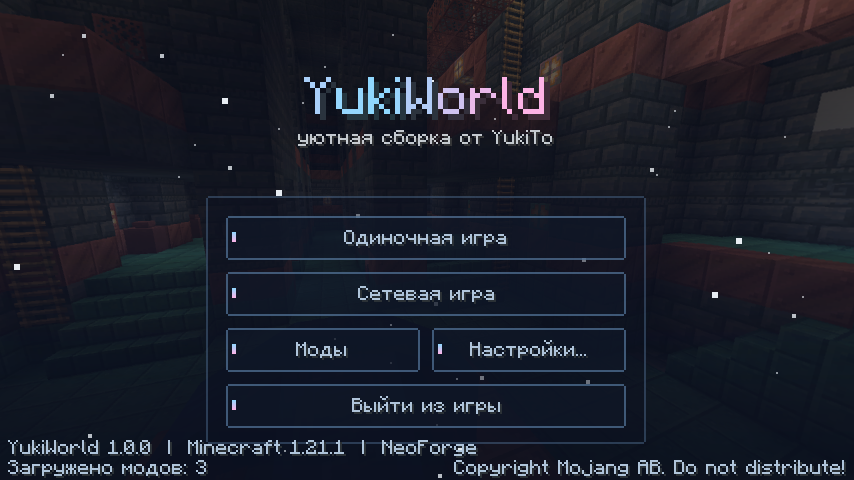
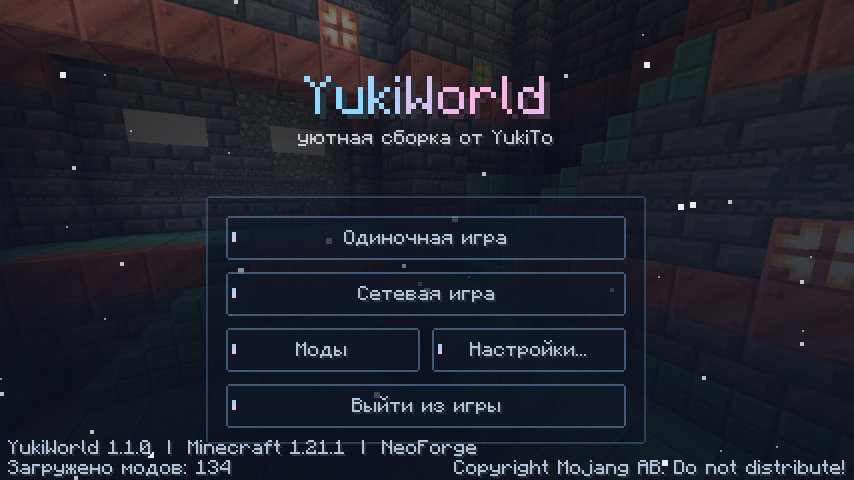
Fix YukiWorld main menu being replaced by Cumulus (The Aether)
- Title screen swap runs at EventPriority.LOWEST so it also replaces
  TitleScreen subclasses installed by other mods
- Ship cumulus_menus-client.toml disabling the Cumulus menu API/buttons
- Bump to 1.1.1, refresh menu screenshot (verified with full pack)

Claude-Session: https://claude.ai/code/session_01WdnmgMCgJ1r6Esf7mUh6EU

diff --git a/yukiworld/yukicore/src/main/java/dev/yukito/yukicore/client/ClientEvents.java b/yukiworld/yukicore/src/main/java/dev/yukito/yukicore/client/ClientEvents.java
@@ -2,6 +2,7 @@ package dev.yukito.yukicore.client;
 
 import dev.yukito.yukicore.Config;
 import net.minecraft.client.gui.screens.TitleScreen;
+import net.neoforged.bus.api.EventPriority;
 import net.neoforged.bus.api.SubscribeEvent;
 import net.neoforged.neoforge.client.event.ClientTickEvent;
 import net.neoforged.neoforge.client.event.ScreenEvent;
@@ -9,8 +10,12 @@ import net.neoforged.neoforge.client.event.ScreenEvent;
 public final class ClientEvents {
     private ClientEvents() {}
 
-    /** Подменяем ванильное главное меню на меню YukiWorld. */
-    @SubscribeEvent
+    /**
+     * Подменяем главное меню на меню YukiWorld.
+     * Приоритет LOWEST: срабатываем последними, после модов, которые ставят своё меню
+     * (например Cumulus Menus из The Aether) — их TitleScreen тоже заменяется.
+     */
+    @SubscribeEvent(priority = EventPriority.LOWEST)
     public static void onScreenOpening(ScreenEvent.Opening event) {
         if (event.getNewScreen() instanceof TitleScreen && Config.CUSTOM_TITLE_SCREEN.get()) {
             event.setNewScreen(new YukiTitleScreen());

diff --git a/yukiworld/yukicore/src/main/java/dev/yukito/yukicore/client/YukiTitleScreen.java b/yukiworld/yukicore/src/main/java/dev/yukito/yukicore/client/YukiTitleScreen.java
@@ -16,7 +16,7 @@ import net.neoforged.neoforge.client.gui.ModListScreen;
 /** Главное меню YukiWorld: панорама, градиент, снег, переливающийся логотип. */
 public class YukiTitleScreen extends Screen {
     private static final String LOGO = "YukiWorld";
-    private static final String PACK_VERSION = "1.1.0";
+    private static final String PACK_VERSION = "1.1.1";
 
     private final Snowfall snow = new Snowfall();
     private long openedAt;

diff --git a/yukiworld/README.md b/yukiworld/README.md
@@ -81,7 +81,7 @@ YukiCore — последняя ступень сборки. Каждое ядр
 
 ## Установка (игроку)
 
-1. Скачай `YukiWorld-1.1.0.mrpack` (из GitHub Actions → артефакт **YukiWorld**).
+1. Скачай `YukiWorld-1.1.1.mrpack` (из GitHub Actions → артефакт **YukiWorld**).
 2. Открой в **Prism Launcher** / **Modrinth App** / **ATLauncher**: «Добавить сборку» → выбрать файл.
 3. Выдели **8–10 ГБ ОЗУ** и используй **Java 21**. Рекомендуемые JVM-флаги:
    ```
@@ -93,11 +93,11 @@ YukiCore — последняя ступень сборки. Каждое ядр
 
 ```bash
 # 1. Мод YukiCore
-cd yukiworld/yukicore && ./gradlew build        # → build/libs/yukicore-1.1.0.jar
+cd yukiworld/yukicore && ./gradlew build        # → build/libs/yukicore-1.1.1.jar
 ./gradlew runClient                              # запустить игру с модом
 
 # 2. Сборка .mrpack (нужен packwiz: go install github.com/packwiz/packwiz@latest)
-bash yukiworld/pack/scripts/build-pack.sh        # → yukiworld/pack/build/YukiWorld-1.1.0.mrpack
+bash yukiworld/pack/scripts/build-pack.sh        # → yukiworld/pack/build/YukiWorld-1.1.1.mrpack
 ```
 
 GitHub Actions (`.github/workflows/yukiworld.yml`) делает оба шага сам при каждом пуше
